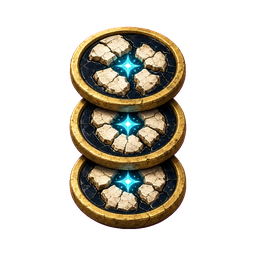
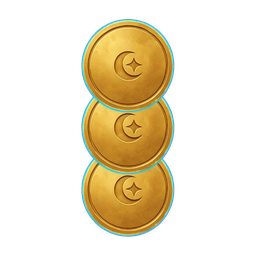
Put the cabinet, character, and scene in the board language.
Spin plate is finished rings, no arrows. Wild is a sleeping-eye seal.
Hourglass and coins lost the skull mush. Old plates were overwritten.

diff --git a/runtime/stake-studio-source/src/engines/assets/BoardSymbolPack.js b/runtime/stake-studio-source/src/engines/assets/BoardSymbolPack.js
@@ -18,6 +18,14 @@ export const MORPHEUS_BOARD_PACK = Object.freeze({
   'Gate of Sleep': '/symbol-pack/morpheus/scatter.png',
 });
 
+export const MORPHEUS_WORLD_PACK = Object.freeze({
+  background: '/symbol-pack/morpheus/background.jpg',
+  foreground: '/symbol-pack/morpheus/cabinet-frame.png',
+  character: '/symbol-pack/morpheus/character.png',
+  reelArea: { x: 80, y: 56, width: 768, height: 512 },
+  characterPlacement: { x: 1004, y: 84, width: 252, height: 540 },
+});
+
 export function boardSymbolPackFor(project) {
   const id = String(project?.id || project?.build?.stakeEngine?.gameId || '').toLowerCase();
   if (id === MORPHEUS_BOARD_PACK_ID || /morpheus/i.test(String(project?.name || ''))) {
@@ -39,6 +47,92 @@ export function applyBoardSymbolPack(project, { overwrite = false } = {}) {
     if (!overwrite && symbol.src) continue;
     symbol.src = src;
     filled += 1;
+  }
+  return { filled, pack: MORPHEUS_BOARD_PACK_ID };
+}
+
+function upsertLayer(layers, predicate, layer, { overwrite }) {
+  const index = layers.findIndex(predicate);
+  if (index < 0) {
+    layers.push(layer);
+    return true;
+  }
+  if (!overwrite) return false;
+  const current = layers[index];
+  layers[index] = { ...current, ...layer, id: current.id };
+  return true;
+}
+
+export function applyMorpheusWorldPack(project, { overwrite = false } = {}) {
+  if (!boardSymbolPackFor(project)) return { filled: 0, pack: null };
+  project.theme ||= {};
+  project.theme.cabinet ||= { layers: [], width: 1280, height: 800 };
+  const cabinet = project.theme.cabinet;
+  cabinet.layers ||= [];
+  cabinet.width = cabinet.width || 1280;
+  cabinet.height = cabinet.height || 800;
+  const pack = MORPHEUS_WORLD_PACK;
+  let filled = 0;
+  if (upsertLayer(
+    cabinet.layers,
+    (layer) => layer.assetPackRole === 'background',
+    {
+      id: 'morpheus-background',
+      name: 'Background',
+      type: 'image',
+      src: pack.background,
+      x: 0, y: 0, width: cabinet.width, height: cabinet.height,
+      opacity: 1, zIndex: 0, visible: true, locked: true,
+      effects: [], blendMode: 'normal', assetPackRole: 'background',
+    },
+    { overwrite },
+  )) filled += 1;
+  if (upsertLayer(
+    cabinet.layers,
+    (layer) => layer.assetPackRole === 'foreground' || layer.type === 'frame',
+    {
+      id: 'morpheus-cabinet-frame',
+      name: 'Reel frame',
+      type: 'frame',
+      src: pack.foreground,
+      x: 0, y: 0, width: cabinet.width, height: cabinet.height,
+      opacity: 1, zIndex: 20, visible: true, locked: false,
+      effects: [], blendMode: 'normal', assetPackRole: 'foreground',
+    },
+    { overwrite },
+  )) filled += 1;
+  if (upsertLayer(
+    cabinet.layers,
+    (layer) => layer.type === 'reel-area',
+    {
+      id: 'morpheus-reel-area',
+      name: 'Reels',
+      type: 'reel-area',
+      src: '',
+      ...pack.reelArea,
+      opacity: 1, zIndex: 2, visible: true, locked: false,
+      effects: [], blendMode: 'normal',
+    },
+    { overwrite },
+  )) filled += 1;
+  project.theme.character ||= { poses: {}, placement: { ...pack.characterPlacement } };
+  const character = project.theme.character;
+  character.visible = character.visible !== false;
+  character.zIndex = character.zIndex || 49;
+  character.placement = overwrite
+    ? { ...pack.characterPlacement }
+    : { ...pack.characterPlacement, ...(character.placement || {}) };
+  if (overwrite || !character.poses?.idle) {
+    character.poses ||= {};
+    character.poses.idle = pack.character;
+    filled += 1;
+  }
+  project.theme.submission ||= {};
+  if (overwrite || !project.theme.submission.background) {
+    project.theme.submission.background = pack.background;
+  }
+  if (overwrite || !project.theme.submission.foreground) {
+    project.theme.submission.foreground = pack.foreground;
   }
   return { filled, pack: MORPHEUS_BOARD_PACK_ID };
 }

diff --git a/runtime/stake-studio-source/src/editor/preview/PreviewPanel.js b/runtime/stake-studio-source/src/editor/preview/PreviewPanel.js
@@ -1347,8 +1347,11 @@ export class PreviewPanel {
     const htmlEnergy = this.allowsHtmlVisibleEffects()
       ? '<div class="preview-character-aura"></div><div class="preview-character-rays"></div><div class="preview-character-heat"></div>'
       : '';
+    const glow = /morpheus/i.test(String(this.project?.id || this.project?.name || ''))
+      ? '--character-glow:#9be7ea;--character-glow-soft:rgba(72,214,222,.28)'
+      : '';
     return `
-      <div class="preview-character" aria-hidden="true" style="left:${x}px;top:${y}px;width:${width}px;height:${height}px;--character-z-index:${character.zIndex}">
+      <div class="preview-character" aria-hidden="true" style="left:${x}px;top:${y}px;width:${width}px;height:${height}px;--character-z-index:${character.zIndex};${glow}">
         ${htmlEnergy}
         <div class="preview-character-rig">
           ${poses}

diff --git a/MOTION_PLAY_HANDOFF.md b/MOTION_PLAY_HANDOFF.md
@@ -2,7 +2,7 @@
 
 **Date:** 2026-08-20  
 **Branch:** `integrate/studio-motion`  
-**HEAD:** see latest commit on this branch — *HUD chrome matches the board pack.*  
+**HEAD:** see latest commit on this branch — *world art + slop pass.*  
 **Repo:** https://github.com/iamendless777/superslotstudio  
 **Local path:** `~/Developer/superslotstudio`  
 **Goal:** Ship many Stake.com games quickly (target ~2 days each). Motion + templates stay reliable so the bottleneck is **art**, not fighting the studio.
@@ -287,6 +287,8 @@ Studio Preview remains **pixel** authority — one tumble, one spin-track.
 - [x] Portable `game-app.js` waiting-reel schedule matches Preview (`waitingReelsFromReveal`, accrued `anticipationHoldMs`).
 - [x] Morpheus **board** symbol pack from the brief (moon / lantern / hourglass / moth / star / crescent / coins / wild seal / Gate of Sleep). Atlas **Apply board pack** fills empty slots only.
 - [x] HUD / spin / mode-card chrome uses the same ivory–gold–cyan language. Old photoreal atlas + generation sources deleted.
+- [x] Slop pass: spin plate is concentric rings (no double arrow). Wild is a sleeping-eye seal (no letter). Hourglass and coins have finished frames (no skulls).
+- [x] Cabinet background, reel frame, and dream-warden character share the board language. Character stands right of the 6×4 window.
 - [ ] If 1.2s/waiting-reel feels short or long, change **one** number: `anticipationHoldMs`. Do not special-case the last reel.
 - [ ] Swap in final commissioned art over the starter pack; keep motion.
 
@@ -417,7 +419,7 @@ Continue Stake Studio from `integrate/studio-motion` (pull first). Read `MOTION_
 2. **2/3/4/5-scatter Play Motion and live 2-scatter are video-confirmed.** Portable frontend uses the same waiting-reel hold. Do not reopen unless pixels regress.
 3. If hold length is wrong, change `anticipationHoldMs` only.
 4. Do not revive GSAP travel, fake scatters, last-reel-only, or an HTML overlay grid.
-5. Art: Atlas → **Copy board brief**. **Apply board pack** fills empty Morpheus slots (not cluster-hex). Swap final art over the pack; keep motion.
+5. Art: Atlas → **Copy board brief**. **Apply board pack** fills empty Morpheus slots (not cluster-hex). World pack lays temple background, reel frame, and character. Dreamfall shaft overlay is still old photoreal. Swap remaining slop; keep motion.
 6. Optional: merge `integrate/studio-motion` → `main`.
 
 ---
@@ -433,7 +435,8 @@ Continue Stake Studio from `integrate/studio-motion` (pull first). Read `MOTION_
 Recent commits (newest first):
 
 ```
-this commit  Match HUD chrome to the board pack.
+this commit  World art + slop pass (spin/wild/hourglass/coins).
+f4ab72c Match HUD chrome to the board pack.
 3f75a34 Put Morpheus board art on the tiles.
 08ac17f Copy board art brief; portable waiting-reel; confirm 4-scatter.
 d7bb42b Confirm 3/5-scatter Play Motion and live 2-scatter.
@@ -461,4 +464,4 @@ b47d871 Hold leftover reels after two scatters, last reel longest.   ← superse
 
 ## 13. One-line summary for the next agent
 
-**Board tiles and HUD chrome share the ivory/gold/cyan pack. Old photoreal control atlas and generation sources were deleted. Next: hold-length feel (`anticipationHoldMs`) or swap final art. Same Stake CSS tracks + playStakeTumble. Do not invent a second animator.**
+**Board, HUD, cabinet, and character share the ivory/gold/cyan pack. Dreamfall shaft overlay is still the old photoreal piece (feature only). Next: hold-length feel (`anticipationHoldMs`) or swap remaining slop (HUD medallion glyphs, shaft). Same Stake CSS tracks + playStakeTumble. Do not invent a second animator.**
